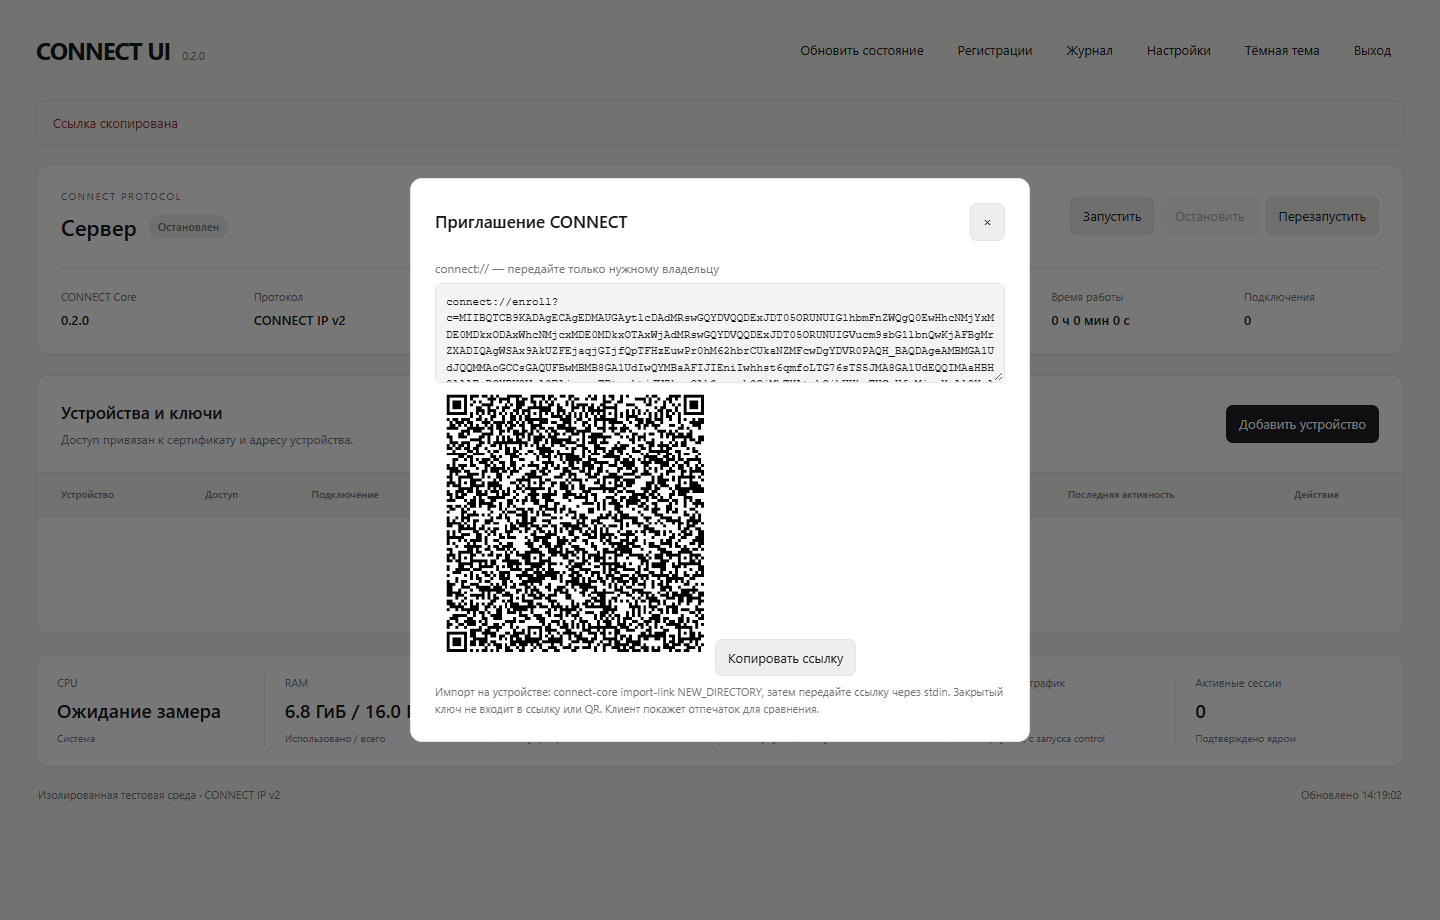
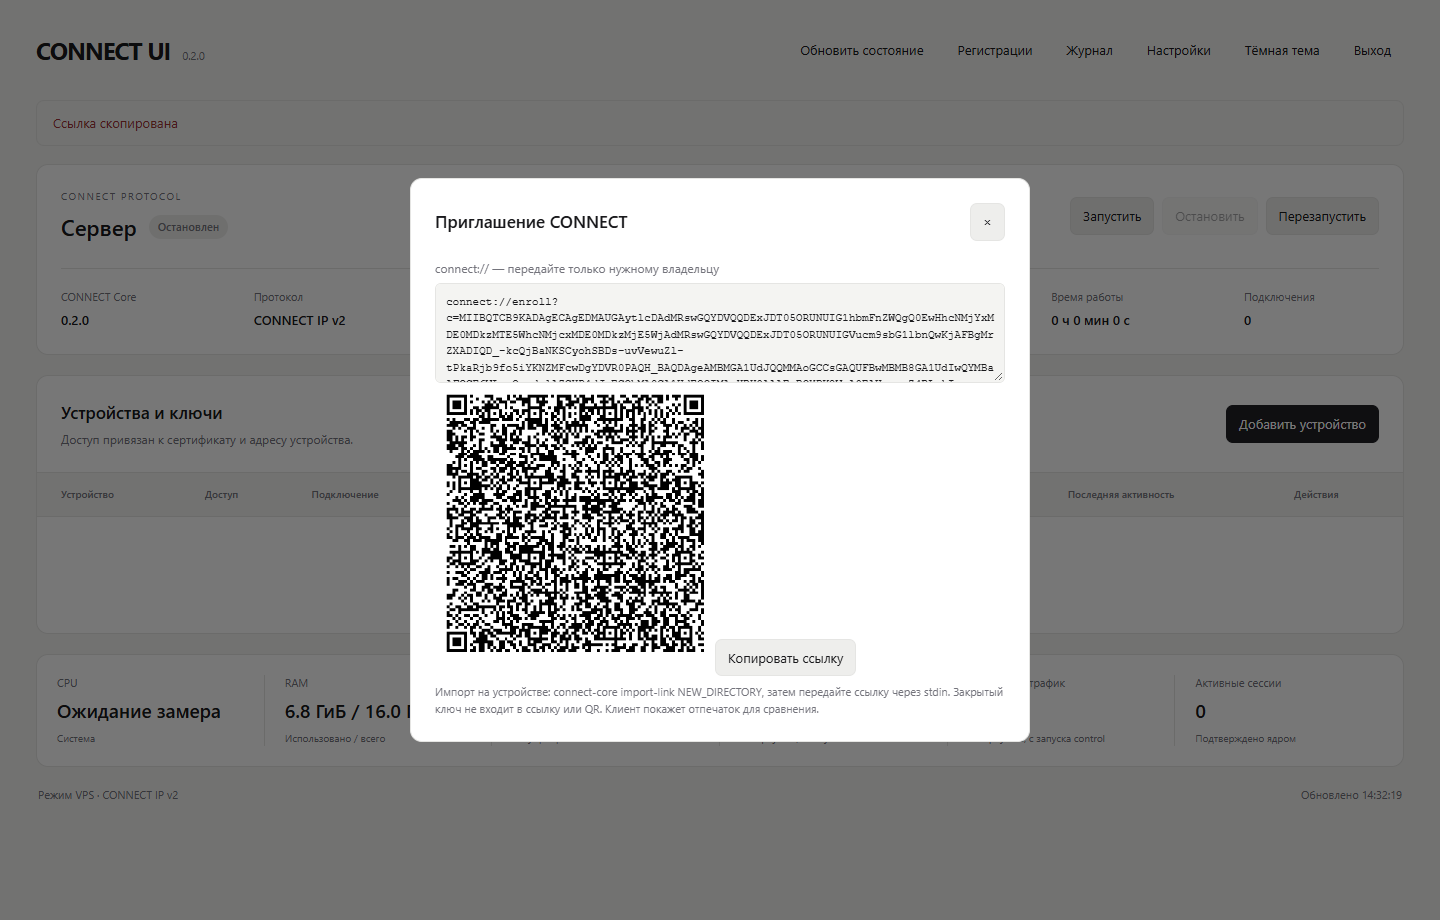
Allow safe reinstall after closed TCP connections and label VPS profile correctly

Changed region(s): [[0.3125, 0.3652, 0.6875, 0.7304], [0.0312, 0.8522, 0.1875, 0.8826]]

diff --git a/internal/panel/web/index.html b/internal/panel/web/index.html
@@ -8,7 +8,7 @@
 <section class="server"><div class="section-head"><div><div class="eyebrow">CONNECT PROTOCOL</div><h1>Сервер <span id="server-status" class="badge">Неизвестно</span></h1></div><div class="actions"><button id="start">Запустить</button><button id="stop">Остановить</button><button id="restart">Перезапустить</button></div></div><div class="server-grid"><div><span>CONNECT Core</span><strong id="core">—</strong></div><div><span>Протокол</span><strong id="protocol">—</strong></div><div><span>Адрес</span><strong id="endpoint">—</strong></div><div><span>Транспорт</span><strong id="transport">—</strong></div><div><span>Время работы</span><strong id="uptime">—</strong></div><div><span>Подключения</span><strong id="connections">—</strong></div></div></section>
 <section class="devices"><div class="section-head"><div><h2>Устройства и ключи</h2><p class="muted">Доступ привязан к сертификату и адресу устройства.</p></div><button id="add" class="primary">Добавить устройство</button></div><div class="table-scroll"><table><thead><tr><th>Устройство</th><th>Доступ</th><th>Подключение</th><th>Назначенный IP</th><th>Получено сервером</th><th>Передано сервером</th><th>Последняя активность</th><th>Действия</th></tr></thead><tbody id="devices"></tbody></table></div></section>
 <section class="metrics"><div><span>CPU</span><strong id="cpu">—</strong><small>Система</small></div><div><span>RAM</span><strong id="ram">—</strong><small>Использовано / всего</small></div><div><span>Disk</span><strong id="disk">—</strong><small>Текущая файловая система</small></div><div><span>Входящий трафик</span><strong id="rx">—</strong><small>IPv4 payload, с запуска control</small></div><div><span>Исходящий трафик</span><strong id="tx">—</strong><small>IPv4 payload, с запуска control</small></div><div><span>Активные сессии</span><strong id="sessions">—</strong><small>Подтверждено ядром</small></div></section>
-<footer><span>Изолированная тестовая среда · CONNECT IP v2</span><span id="updated">Состояние не получено</span></footer>
+<footer><span id="environment">CONNECT IP v2</span><span id="updated">Состояние не получено</span></footer>
 </main>
 <dialog id="dialog"><div class="dialog-head"><h2 id="dialog-title"></h2><button id="close-dialog" aria-label="Закрыть">×</button></div><div id="dialog-body"></div></dialog>
 </body></html>

diff --git a/internal/panel/web/app.js b/internal/panel/web/app.js
@@ -20,6 +20,7 @@ async function refresh() {
   catch (e) { snapshot = null; text('server-status', 'Неизвестно'); $('server-status').className = 'badge error'; for (const id of ['core','protocol','endpoint','transport','uptime','connections','cpu','ram','disk','rx','tx','sessions']) text(id,'—'); $('devices').replaceChildren(); for (const id of ['start','stop','restart','add']) $(id).disabled = true; text('updated', 'Состояние не подтверждено'); notice(e.message); }
 }
 function render(s) {
+  text('environment',s.environment==='managed-vps' ? 'Режим VPS · CONNECT IP v2' : 'Изолированная тестовая среда · CONNECT IP v2');
   const names = { running: 'Работает', stopped: 'Остановлен', stopping: 'Останавливается', error: 'Ошибка' };
   text('server-status', names[s.status] || 'Неизвестно'); $('server-status').className = `badge ${s.status}`;
   text('core', s.core_version); text('protocol', `CONNECT IP v${s.protocol_version}`); text('endpoint', s.endpoint); text('transport', s.transport);

diff --git a/scripts/connect-install.py b/scripts/connect-install.py
@@ -63,6 +63,9 @@ def check_ports(ports):
                 raise RuntimeError(f'Port {match.group(1)} is already occupied; nothing will be stopped')
     for port, kind in ports.items():
         with socket.socket(socket.AF_INET, kind) as s:
+            # Match Go's listener semantics: closed TIME_WAIT connections are
+            # not an occupied service. The ss check still rejects live listeners.
+            if kind == socket.SOCK_STREAM: s.setsockopt(socket.SOL_SOCKET, socket.SO_REUSEADDR, 1)
             s.bind(('0.0.0.0', port))  # Detect bind failures as well as existing listeners.
 
 def ensure_fresh():
